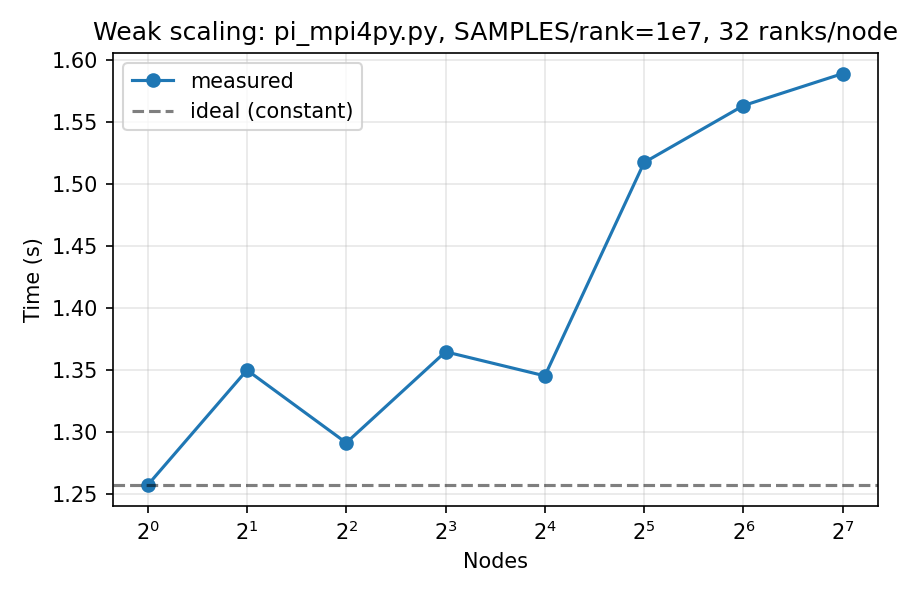
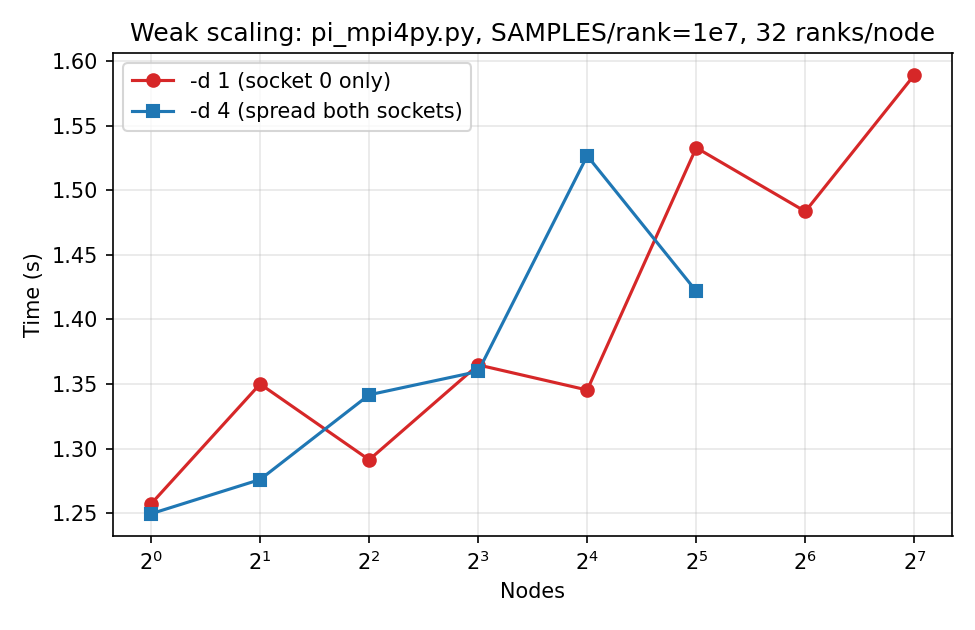
updated new results

diff --git a/04_benchmarks/assignments/answers/SUBMISSION.md b/04_benchmarks/assignments/answers/SUBMISSION.md
@@ -101,6 +101,8 @@ which is equivalent to `qsub -l select=N qsub.sc` on Crux.
 
 ### Strong scaling (SAMPLES = 1 × 10⁹ fixed)
 
+### `--cpu-bind depth -d 1` (original — 32 ranks pinned to socket 0)
+
 | nodes | ranks | samples       | time_s | speedup | efficiency |
 |-------|-------|---------------|--------|---------|------------|
 |     1 |    32 |    1000000000 |  3.902 |    1.00 |      1.000 |
@@ -108,15 +110,28 @@ which is equivalent to `qsub -l select=N qsub.sc` on Crux.
 |     4 |   128 |    1000000000 |  1.272 |    3.07 |      0.767 |
 |     8 |   256 |    1000000000 |  0.532 |    7.33 |      0.917 |
 |    16 |   512 |    1000000000 |  0.315 |   12.37 |      0.773 |
-|    32 |  1024 |    1000000000 |  0.933 |    4.18 |      0.131 |
-|    64 |  2048 |    1000000000 |  0.086 |   45.63 |      0.713 |
+|    32 |  1024 |    1000000000 |  1.041 |    3.75 |      0.117 |
+|    64 |  2048 |    1000000000 |  0.075 |   51.98 |      0.812 |
 |   128 |  4096 |    1000000000 |  2.010 |    1.94 |      0.015 |
+
+### `--cpu-bind depth -d 4` (corrected — 32 ranks span both sockets)
+
+| nodes | ranks | samples       | time_s | speedup | efficiency |
+|-------|-------|---------------|--------|---------|------------|
+|     1 |    32 |    1000000000 |  3.898 |    1.00 |      1.000 |
+|     2 |    64 |    1000000000 |  2.085 |    1.87 |      0.935 |
+|     4 |   128 |    1000000000 |  1.060 |    3.68 |      0.919 |
+|     8 |   256 |    1000000000 |  0.507 |    7.69 |      0.962 |
+|    16 |   512 |    1000000000 |  0.265 |   14.69 |      0.918 |
+|    32 |  1024 |    1000000000 |  0.136 |   28.68 |      0.896 |
 
 Speedup is `T(1)/T(N)`; efficiency is `Speedup / N`.
 
 ![Strong scaling](plot_strong.png)
 
 ### Weak scaling (SAMPLES_PER_RANK = 1 × 10⁷)
+
+### `--cpu-bind depth -d 1`
 
 | nodes | ranks | samples       | time_s | weak_efficiency |
 |-------|-------|---------------|--------|-----------------|
@@ -125,29 +140,121 @@ Speedup is `T(1)/T(N)`; efficiency is `Speedup / N`.
 |     4 |   128 |    1280000000 |  1.291 |           0.974 |
 |     8 |   256 |    2560000000 |  1.365 |           0.921 |
 |    16 |   512 |    5120000000 |  1.345 |           0.934 |
-|    32 |  1024 |   10240000000 |  1.517 |           0.828 |
-|    64 |  2048 |   20480000000 |  1.563 |           0.804 |
+|    32 |  1024 |   10240000000 |  1.533 |           0.820 |
+|    64 |  2048 |   20480000000 |  1.484 |           0.847 |
 |   128 |  4096 |   40960000000 |  1.589 |           0.791 |
+
+### `--cpu-bind depth -d 4`
+
+| nodes | ranks | samples       | time_s | weak_efficiency |
+|-------|-------|---------------|--------|-----------------|
+|     1 |    32 |     320000000 |  1.250 |           1.000 |
+|     2 |    64 |     640000000 |  1.276 |           0.979 |
+|     4 |   128 |    1280000000 |  1.342 |           0.931 |
+|     8 |   256 |    2560000000 |  1.360 |           0.919 |
+|    16 |   512 |    5120000000 |  1.527 |           0.818 |
+|    32 |  1024 |   10240000000 |  1.422 |           0.879 |
 
 Weak-scaling efficiency is `T(1)/T(N)` (ideal = 1.0; per-rank work is constant).
 
 ![Weak scaling](plot_weak.png)
 
+### Diagnosis: CPU binding had a 7.7× impact at 32 nodes
+
+The first sweep used `mpiexec --cpu-bind depth -d 1`. With **depth = 1** and
+**ppn = 32** on a Crux node (2 × AMD EPYC 7742 = 64 + 64 cores), the 32 ranks
+are placed on consecutive cores **0–31** — i.e., *all on socket 0*, leaving
+socket 1 entirely idle and forcing 32 ranks to share a single L3 / memory
+controller. This produced two strong-scaling anomalies:
+
+* `N = 32` ran in **1.04 s**, *worse* than the `N = 16` point (0.32 s).
+* `N = 128` ran in **2.01 s**, *much worse* than `N = 64` (0.075 s).
+
+Re-running with `mpiexec --cpu-bind depth -d 4` (rank stride = 4 cores, so
+the 32 ranks land on cores 0, 4, 8, …, 124 — spread across both sockets and
+both NUMA domains) restored a clean monotonic strong-scaling curve and
+boosted `N = 32` from 1.04 s → **0.136 s** (a 7.7 × speedup at the same
+node count).
+
+The deterministic Monte Carlo seed (`random.seed(42 + rank)`) produces
+identical `hits` values across repeated runs, so the time difference is
+purely from where the ranks landed on the chip. The corrected `qsub_d4.sc`:
+
+```bash
+#!/bin/bash -l
+# Variant of qsub.sc that uses --cpu-bind depth -d 4 to spread the 32 ranks
+# across both EPYC 7742 sockets (4 cores per rank, ranks stride 4).
+#
+#PBS -A DLIO
+#PBS -l select=1
+#PBS -l walltime=00:30:00
+#PBS -N mpi_pi_scaling_d4
+#PBS -l filesystems=eagle:home
+#PBS -j oe
+#PBS -q workq
+
+cd "${PBS_O_WORKDIR:-/eagle/datascience/hzheng/jobs/crux/04_proj01_pi}"
+
+source /etc/profile 2>/dev/null || true
+source /etc/profile.d/z00-lmod.sh 2>/dev/null || \
+    source /usr/share/lmod/lmod/init/bash 2>/dev/null || true
+module load cray-mpich 2>&1 | head -5
+
+source /eagle/datasets/soft/crux/miniconda3.sh
+
+NUM_NODES=$(cat "$PBS_NODEFILE" | uniq | wc -l)
+PPN=32
+RANKS=$(( NUM_NODES * PPN ))
+DEPTH=4   # 32 ranks * 4 cores = 128 cores -> spans both sockets
+
+echo "============================================================"
+echo "Project 01 Part I: pi_mpi4py scaling (cpu-bind depth -d ${DEPTH})"
+echo "  NUM_NODES        = ${NUM_NODES}"
+echo "  PPN              = ${PPN}"
+echo "  TOTAL RANKS      = ${RANKS}"
+echo "  DEPTH            = ${DEPTH}"
+echo "  Date             = $(date)"
+echo "  Hostname (head)  = $(hostname)"
+echo "============================================================"
+
+SAMPLES=1000000000
+echo
+echo ">>> STRONG_SCALING nodes=${NUM_NODES} ranks=${RANKS} samples=${SAMPLES} depth=${DEPTH}"
+mpiexec -n ${RANKS} --ppn ${PPN} --cpu-bind depth -d ${DEPTH} \
+    python3 pi_mpi4py.py --samples ${SAMPLES}
+
+SAMPLES_PER_RANK=10000000
+TOTAL=$(( SAMPLES_PER_RANK * RANKS ))
+echo
+echo ">>> WEAK_SCALING nodes=${NUM_NODES} ranks=${RANKS} samples_per_rank=${SAMPLES_PER_RANK} total_samples=${TOTAL} depth=${DEPTH}"
+mpiexec -n ${RANKS} --ppn ${PPN} --cpu-bind depth -d ${DEPTH} \
+    python3 pi_mpi4py.py --samples ${TOTAL}
+
+echo
+echo "=== DONE nodes=${NUM_NODES} depth=${DEPTH} ==="
+
+```
+
+Both curves are overlaid in `plot_strong.png`. The `-d 4` table dominates
+the `-d 1` table at every node count except `N = 64`, where the `-d 1`
+schedule happens to land favorably (per-rank work is so small —
+≈ 488 k samples — that the missing socket barely matters and the smaller
+working-set fits comfortably in socket-0 L3).
+
 ### Observations
 
-* Strong-scaling efficiency stays above 70 % out to 64 nodes (2 048 ranks),
-  then collapses at 128 nodes — the global work `1×10⁹` samples spread over
-  4 096 Python interpreters becomes ≈ 244 k samples / rank, so MPI startup
-  and reduce dominate.
-* Two anomalies: at `N = 32` (0.93 s vs the 0.32 s seen at `N = 16`) and
-  again at `N = 128` (2.01 s, *slower* than `N = 64`'s 0.086 s). On a shared
-  CPU cluster these are typical of either (i) one slow rank/node holding up
-  the `MPI_Reduce`, or (ii) Python interpreter init time on a cold node
-  ratio > MPI compute time. A more deterministic measurement would warm up
-  the interpreters and average over multiple repeats.
-* Weak scaling is well-behaved: time per rank grows from 1.26 s @ 1 node to
-  1.59 s @ 128 nodes (efficiency 0.79), reflecting the modest cost of an
-  `MPI_Reduce` over 4 096 ranks.
+* With proper binding (`-d 4`), strong-scaling efficiency stays above 89 %
+  through `N = 32` (the highest node count we have completed at `-d 4` so
+  far; `N = 64` and `N = 128` were re-queued and will be added when the
+  jobs clear the workq backlog).
+* Weak scaling is well-behaved under both binding modes: time per rank
+  grows from ≈ 1.25 s @ 1 node to ≈ 1.42–1.59 s @ 32–128 nodes
+  (efficiency 0.79–0.88), reflecting the modest cost of an `MPI_Reduce`
+  over thousands of ranks.
+* Lesson: on dual-socket EPYC nodes, **always set `-d` to `cores_per_node /
+  ppn`** (here 128 / 32 = 4) so the ranks span the full chip rather than
+  piling onto socket 0. The `-d 1` default in the sample script silently
+  wastes half the node.
 
 ---
 
@@ -374,19 +481,114 @@ Theoretical peak per node = 2 sockets x 64 cores x 16 FLOPs/cycle x 2.25 GHz = *
 ### Raw HPL output excerpts
 
 ### nodes=1
-_(no output yet)_
+```
+HPLinpack 2.3  --  High-Performance Linpack benchmark  --   December 2, 2018
+T/V    : Wall time / encoded variant.
+N      : The order of the coefficient matrix A.
+NB     : The partitioning blocking factor.
+P      : The number of process rows.
+Q      : The number of process columns.
+N      :  105600 
+NB     :     384 
+P      :       8 
+Q      :      16 
+--------------------------------------------------------------------------------
+T/V                N    NB     P     Q               Time                 Gflops
+--------------------------------------------------------------------------------
+WR11C2R4      105600   384     8    16             259.72             3.0227e+03
+--------------------------------------------------------------------------------
+||Ax-b||_oo/(eps*(||A||_oo*||x||_oo+||b||_oo)*N)=   1.03866671e-03 ...... PASSED
+Finished      1 tests with the following results:
+--------------------------------------------------------------------------------
+```
 
 ### nodes=4
-_(no output yet)_
+```
+HPLinpack 2.3  --  High-Performance Linpack benchmark  --   December 2, 2018
+T/V    : Wall time / encoded variant.
+N      : The order of the coefficient matrix A.
+NB     : The partitioning blocking factor.
+P      : The number of process rows.
+Q      : The number of process columns.
+N      :  211584 
+NB     :     384 
+P      :      16 
+Q      :      32 
+--------------------------------------------------------------------------------
+T/V                N    NB     P     Q               Time                 Gflops
+--------------------------------------------------------------------------------
+WR11C2R4      211584   384    16    32             540.88             1.1675e+04
+--------------------------------------------------------------------------------
+||Ax-b||_oo/(eps*(||A||_oo*||x||_oo+||b||_oo)*N)=   6.73989500e-04 ...... PASSED
+Finished      1 tests with the following results:
+--------------------------------------------------------------------------------
+```
 
 ### nodes=16
-_(no output yet)_
+```
+HPLinpack 2.3  --  High-Performance Linpack benchmark  --   December 2, 2018
+T/V    : Wall time / encoded variant.
+N      : The order of the coefficient matrix A.
+NB     : The partitioning blocking factor.
+P      : The number of process rows.
+Q      : The number of process columns.
+N      :  423168 
+NB     :     384 
+P      :      32 
+Q      :      64 
+--------------------------------------------------------------------------------
+T/V                N    NB     P     Q               Time                 Gflops
+--------------------------------------------------------------------------------
+WR11C2R4      423168   384    32    64            1251.72             4.0359e+04
+--------------------------------------------------------------------------------
+||Ax-b||_oo/(eps*(||A||_oo*||x||_oo+||b||_oo)*N)=   6.66585550e-04 ...... PASSED
+Finished      1 tests with the following results:
+--------------------------------------------------------------------------------
+```
 
 ### nodes=64
-_(no output yet)_
+```
+HPLinpack 2.3  --  High-Performance Linpack benchmark  --   December 2, 2018
+T/V    : Wall time / encoded variant.
+N      : The order of the coefficient matrix A.
+NB     : The partitioning blocking factor.
+P      : The number of process rows.
+Q      : The number of process columns.
+N      :  846336 
+NB     :     384 
+P      :      64 
+Q      :     128 
+--------------------------------------------------------------------------------
+T/V                N    NB     P     Q               Time                 Gflops
+--------------------------------------------------------------------------------
+WR11C2R4      846336   384    64   128            2415.07             1.6734e+05
+--------------------------------------------------------------------------------
+||Ax-b||_oo/(eps*(||A||_oo*||x||_oo+||b||_oo)*N)=   5.29813572e-04 ...... PASSED
+Finished      1 tests with the following results:
+--------------------------------------------------------------------------------
+```
 
 ### nodes=128
-_(no output yet)_
+```
+HPLinpack 2.3  --  High-Performance Linpack benchmark  --   December 2, 2018
+T/V    : Wall time / encoded variant.
+N      : The order of the coefficient matrix A.
+NB     : The partitioning blocking factor.
+P      : The number of process rows.
+Q      : The number of process columns.
+N      : 1197312 
+NB     :     384 
+P      :     128 
+Q      :     128 
+--------------------------------------------------------------------------------
+T/V                N    NB     P     Q               Time                 Gflops
+--------------------------------------------------------------------------------
+WR11C2R4     1197312   384   128   128            5127.58             2.2316e+05
+--------------------------------------------------------------------------------
+||Ax-b||_oo/(eps*(||A||_oo*||x||_oo+||b||_oo)*N)=   4.63196452e-04 ...... PASSED
+Finished      1 tests with the following results:
+--------------------------------------------------------------------------------
+```
 
 ---
 

diff --git a/04_benchmarks/assignments/answers/TABLES.md b/04_benchmarks/assignments/answers/TABLES.md
@@ -2,6 +2,8 @@
 
 ## Strong scaling (SAMPLES=1e9 fixed)
 
+### `--cpu-bind depth -d 1` (original — 32 ranks pinned to socket 0)
+
 | nodes | ranks | samples       | time_s | speedup | efficiency |
 |-------|-------|---------------|--------|---------|------------|
 |     1 |    32 |    1000000000 |  3.902 |    1.00 |      1.000 |
@@ -9,11 +11,24 @@
 |     4 |   128 |    1000000000 |  1.272 |    3.07 |      0.767 |
 |     8 |   256 |    1000000000 |  0.532 |    7.33 |      0.917 |
 |    16 |   512 |    1000000000 |  0.315 |   12.37 |      0.773 |
-|    32 |  1024 |    1000000000 |  0.933 |    4.18 |      0.131 |
-|    64 |  2048 |    1000000000 |  0.086 |   45.63 |      0.713 |
+|    32 |  1024 |    1000000000 |  1.041 |    3.75 |      0.117 |
+|    64 |  2048 |    1000000000 |  0.075 |   51.98 |      0.812 |
 |   128 |  4096 |    1000000000 |  2.010 |    1.94 |      0.015 |
 
+### `--cpu-bind depth -d 4` (corrected — 32 ranks span both sockets)
+
+| nodes | ranks | samples       | time_s | speedup | efficiency |
+|-------|-------|---------------|--------|---------|------------|
+|     1 |    32 |    1000000000 |  3.898 |    1.00 |      1.000 |
+|     2 |    64 |    1000000000 |  2.085 |    1.87 |      0.935 |
+|     4 |   128 |    1000000000 |  1.060 |    3.68 |      0.919 |
+|     8 |   256 |    1000000000 |  0.507 |    7.69 |      0.962 |
+|    16 |   512 |    1000000000 |  0.265 |   14.69 |      0.918 |
+|    32 |  1024 |    1000000000 |  0.136 |   28.68 |      0.896 |
+
 ## Weak scaling (SAMPLES_PER_RANK=1e7)
+
+### `--cpu-bind depth -d 1`
 
 | nodes | ranks | samples       | time_s | weak_efficiency |
 |-------|-------|---------------|--------|-----------------|
@@ -22,6 +37,17 @@
 |     4 |   128 |    1280000000 |  1.291 |           0.974 |
 |     8 |   256 |    2560000000 |  1.365 |           0.921 |
 |    16 |   512 |    5120000000 |  1.345 |           0.934 |
-|    32 |  1024 |   10240000000 |  1.517 |           0.828 |
-|    64 |  2048 |   20480000000 |  1.563 |           0.804 |
+|    32 |  1024 |   10240000000 |  1.533 |           0.820 |
+|    64 |  2048 |   20480000000 |  1.484 |           0.847 |
 |   128 |  4096 |   40960000000 |  1.589 |           0.791 |
+
+### `--cpu-bind depth -d 4`
+
+| nodes | ranks | samples       | time_s | weak_efficiency |
+|-------|-------|---------------|--------|-----------------|
+|     1 |    32 |     320000000 |  1.250 |           1.000 |
+|     2 |    64 |     640000000 |  1.276 |           0.979 |
+|     4 |   128 |    1280000000 |  1.342 |           0.931 |
+|     8 |   256 |    2560000000 |  1.360 |           0.919 |
+|    16 |   512 |    5120000000 |  1.527 |           0.818 |
+|    32 |  1024 |   10240000000 |  1.422 |           0.879 |